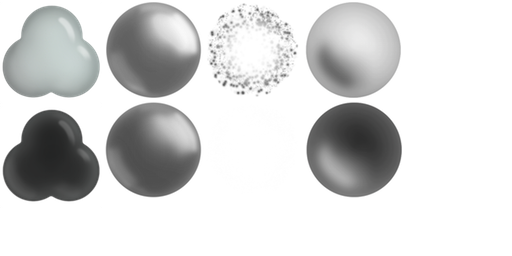
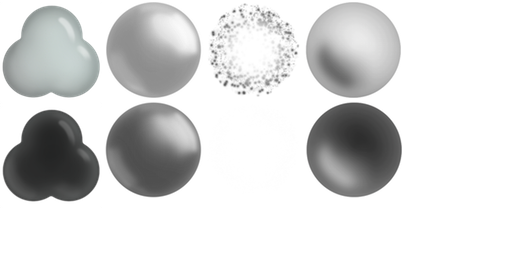
nulis2: play in ed works, various small tweaks

Changed region(s): [[0.1875, 0.0, 0.5938, 0.4062], [0.3438, 0.0312, 0.375, 0.0938], [0.5625, 0.1875, 0.5938, 0.2188]]

diff --git a/dgreed/apps/nulis2/sim.c b/dgreed/apps/nulis2/sim.c
@@ -24,8 +24,8 @@ typedef struct {
 // Sprites
 static SprHandle spr_background;
 static SprHandle spr_balls[32];
-static SprHandle spr_grav_b_in;
-static SprHandle spr_grav_w_in;
+static SprHandle spr_grav_b_in, spr_grav_b_back;
+static SprHandle spr_grav_w_in, spr_grav_w_back;
 
 // Game state
 static float screen_widthf, screen_heightf;
@@ -34,6 +34,7 @@ static DArray spawns;
 static DArray ghosts;
 static CDWorld cd;
 static LevelDef level;
+static float start_t;
 static float last_spawn_t;
 
 static bool ffield_push;
@@ -104,7 +105,9 @@ void sim_init(uint screen_width, uint screen_height) {
 	spr_balls[BT_TIME | BT_WHITE] = 	sprsheet_get_handle("time_w");
 
 	spr_grav_b_in = sprsheet_get_handle("gravity_b_inside");
+	spr_grav_b_back = sprsheet_get_handle("gravity_b_back");
 	spr_grav_w_in = sprsheet_get_handle("gravity_w_inside");
+	spr_grav_w_back = sprsheet_get_handle("gravity_w_back");
 }
 
 void sim_close(void) {
@@ -116,6 +119,18 @@ void sim_close(void) {
 }
 
 void sim_reset(const char* level) {
+	start_t = last_spawn_t = time_s();
+	ghosts.size = 0;
+	spawns.size = 0;
+	if(balls.size != 0) {
+		Ball* b = DARRAY_DATA_PTR(balls, Ball);
+		for(uint i = 0; i < balls.size; ++i) {
+			if(b[i].collider)
+				coldet_remove_obj(&cd, b[i].collider);
+		}
+		balls.size = 0;
+	}
+
 	_load_level(level);
 
 	last_spawn_t = time_s();
@@ -129,13 +144,19 @@ static void _spawn_ex(Ball* b) {
 	darray_append(&spawns, b);
 }
 
-static void _spawn(Vector2 pos, Vector2 vel, BallType type, float a, float t) {
+static void _spawn(Vector2 pos, Vector2 vel, BallType type, float a, float t, float s) {
 
 	float angular_vel = rand_float_range(-spawn_maxrot, spawn_maxrot);
 	float radius = type & BT_PAIR ? ball_radius * pair_displacement : ball_radius; 
 	float mass = type & BT_PAIR ? ball_mass * 2.0f : ball_mass;
-	if(type & BT_GRAV)
+
+	if(type & BT_GRAV) {
 		mass = grav_mass;
+	}
+
+	if(type & BT_GRAV || type & BT_TIME) {
+		radius = 16.0f + s * 2.0f;
+	}
 
 	Ball new = {
 		.pos = pos,
@@ -222,7 +243,7 @@ static bool _do_balls_collide(const Ball* a, const Ball* b) {
 }
 
 static void _update_level(void) {
-	float t = time_s();
+	float t = time_s() - start_t;
 
 	// Spawn predefined balls
 	for(uint i = 0; i < level.n_spawns; ++i) {
@@ -232,7 +253,7 @@ static void _update_level(void) {
 					screen_widthf/2.0f + s->pos.x,
 					screen_heightf/2.0f + s->pos.y
 			);
-			_spawn(p, s->vel, s->type, 0.0f, t);
+			_spawn(p, s->vel, s->type, 0.0f, t, s->s);
 			last_spawn_t = t;
 
 			// Move last spawn here, decrease count
@@ -267,7 +288,7 @@ static void _update_level(void) {
 					sinf(a) * v
 			);
 
-			_spawn(pos, vel, type, 0.0f, t);
+			_spawn(pos, vel, type, 0.0f, t, 0.0f);
 			last_spawn_t = t;
 		}
 	}
@@ -543,7 +564,7 @@ void _collission_cb(CDObj* a, CDObj* b) {
 						);	
 						Vector2 pos = vec2_add(fancy->pos, offset);
 						Vector2 v = vec2_add(vec2_scale(offset, 0.5), vf);
-						_spawn(pos, v, ta & BT_WHITE, 0.0f, -1.0f);
+						_spawn(pos, v, ta & BT_WHITE, 0.0f, -1.0f, 0.0f);
 					}
 				}
 			}
@@ -558,7 +579,7 @@ void _collission_cb(CDObj* a, CDObj* b) {
 				// To small, become a normal ball
 				if(fancy->radius < 16.0f) {
 					fancy->remove = true;
-					_spawn(fancy->pos, vf, fancy->type & BT_WHITE, 0.0f, -1.0f);
+					_spawn(fancy->pos, vf, fancy->type & BT_WHITE, 0.0f, -1.0f, 0.0f);
 				}
 			}
 			return;
@@ -599,7 +620,7 @@ void _collission_cb(CDObj* a, CDObj* b) {
 			if((ta & BT_PAIR) && (tb & BT_PAIR)) {
 				Vector2 vel = vec2_sub(new.old_pos, new.pos);
 				vel = vec2_scale(vel, 1.0f / DT);
-				_spawn(new.pos, vel, ta & BT_WHITE, 0.0f, -1.0f);
+				_spawn(new.pos, vel, ta & BT_WHITE, 0.0f, -1.0f, 0.0f);
 			}
 		}
 	}
@@ -630,7 +651,7 @@ void _collission_cb(CDObj* a, CDObj* b) {
 					);	
 					Vector2 pos = vec2_add(p, offset);
 					Vector2 v = vec2_add(vec2_scale(offset, 0.5), vab);
-					_spawn(pos, v, i%2 ? BT_WHITE : 0, 0.0f, -1.0f);
+					_spawn(pos, v, i%2 ? BT_WHITE : 0, 0.0f, -1.0f, 0.0f);
 				}
 			}
 			// XX + Y = X + X + Y + Y
@@ -644,7 +665,7 @@ void _collission_cb(CDObj* a, CDObj* b) {
 					);	
 					Vector2 pos = vec2_add(p, offset);
 					Vector2 v = vec2_add(vec2_scale(offset, 0.5f), vab);
-					_spawn(pos, v, i%2 ? BT_WHITE : 0, 0.0f, -1.0f);
+					_spawn(pos, v, i%2 ? BT_WHITE : 0, 0.0f, -1.0f, 0.);
 				}
 			}
 			return;
@@ -850,7 +871,7 @@ static void _render_ball(Ball* b, float t) {
 	float angle = (b->type & ~BT_WHITE) ? b->angle : 0.0f;
 
 	Color c = COLOR_WHITE;
-	uint layer = 1;
+	uint layer = 3;
 
 	float radius = b->radius;
 
@@ -897,21 +918,21 @@ static void _render_ball(Ball* b, float t) {
 		SprHandle spr = b->type & BT_WHITE ? spr_grav_w_in : spr_grav_b_in;
 		float off = t + b->t;
 
-		const int n_rings = 4;
+		const int n_rings = 6;
 		for(uint i = 0; i < n_rings; ++i) {
 			float sn = sinf(t + i*(PI*2.0f / n_rings))/ 2.0f + 0.5f;
 			float cn = cosf(t + i*(PI*2.0f / n_rings));
 
 			if(cn > 0.0f) {
-				float r = lerp(scale*0.4f, scale*0.8f, sn);
-				float a = off * (float)(i+1);
+				float r = lerp(scale*0.2f, scale, sn);
+				float a = off * (float)(i+1) / 6.0f;
 				Color col = c & 0xFFFFFF;
 				col = color_lerp(col, c, cn);
 
 				spr_draw_cntr_h(spr, layer+1, b->pos, a, r, col);
 
 				WRAPAROUND_DRAW(x_min, x_max, y_min, y_max, b->pos,
-					spr_draw_cntr_h(spr, layer+1, npos, a, r, col));
+					spr_draw_cntr_h(spr, layer-1, npos, a, r, col));
 			}
 		}
 	}

diff --git a/dgreed/apps/nulis2/levels.c b/dgreed/apps/nulis2/levels.c
@@ -32,6 +32,52 @@ static BallType _get_type(const char* typestr) {
 	return 0;
 }
 
+static void _parse_level(MMLObject* mml, NodeIdx node, LevelDef* dest) {
+	const char* name = mml_getval_str(mml, node);
+	assert(strlen(name) < LEVEL_NAMELEN);
+	strcpy(dest->name, name);
+
+	NodeIdx n = mml_get_child(mml, node, "random_at");
+	if(n)
+		dest->spawn_random_at = mml_getval_uint(mml, n);
+	
+	n = mml_get_child(mml, node, "random_interval");
+	if(n)
+		dest->spawn_random_interval = mml_getval_float(mml, n);
+
+	n = mml_get_child(mml, node, "spawns");
+	dest->n_spawns = 0; 
+	assert(dest->n_spawns <= MAX_SPAWNS);
+
+	n = mml_get_first_child(mml, n);
+	for(; n != 0; n = mml_get_next(mml, n)) {
+		SpawnDef spawn = {
+			.pos = {0.0f, 0.0f},
+			.vel = {0.0f, 0.0f},
+			.t = 0.0f,
+			.s = 0.0f,
+			.type = _get_type(mml_get_name(mml, n))
+		};
+
+		spawn.pos = mml_getval_vec2(mml, n);
+
+		NodeIdx m = mml_get_child(mml, n, "vel");
+		if(m)
+			spawn.vel = mml_getval_vec2(mml, m);
+		
+		m = mml_get_child(mml, n, "t");
+		if(m)
+			spawn.t = mml_getval_float(mml, m);
+
+		m = mml_get_child(mml, n, "s");
+		if(m)
+			spawn.s = mml_getval_float(mml, m);
+
+		assert(dest->n_spawns < MAX_SPAWNS);
+		dest->spawns[dest->n_spawns++] = spawn;
+	}
+}
+
 void levels_reset(const char* desc) {
 	assert(desc);
 
@@ -76,50 +122,54 @@ void levels_reset(const char* desc) {
 		LevelDef new;
 		memset(&new, 0, sizeof(new));
 
-		const char* name = mml_getval_str(&level_mml, level);
-		assert(strlen(name) < LEVEL_NAMELEN);
-		strcpy(new.name, name);
-
-		NodeIdx n = mml_get_child(&level_mml, level, "random_at");
-		if(n)
-			new.spawn_random_at = mml_getval_uint(&level_mml, n);
+		_parse_level(&level_mml, level, &new);
 		
-		n = mml_get_child(&level_mml, level, "random_interval");
-		if(n)
-			new.spawn_random_interval = mml_getval_float(&level_mml, n);
-
-		n = mml_get_child(&level_mml, level, "spawns");
-		new.n_spawns = 0; 
-		assert(new.n_spawns <= MAX_SPAWNS);
-
-		n = mml_get_first_child(&level_mml, n);
-		for(; n != 0; n = mml_get_next(&level_mml, n)) {
-			SpawnDef spawn = {
-				.pos = {0.0f, 0.0f},
-				.vel = {0.0f, 0.0f},
-				.t = 0.0f,
-				.type = _get_type(mml_get_name(&level_mml, n))
-			};
-
-			spawn.pos = mml_getval_vec2(&level_mml, n);
-
-			NodeIdx m = mml_get_child(&level_mml, n, "vel");
-			if(m)
-				spawn.vel = mml_getval_vec2(&level_mml, m);
-			
-			m = mml_get_child(&level_mml, n, "t");
-			if(m)
-				spawn.t = mml_getval_float(&level_mml, m);
-
-			assert(new.n_spawns < MAX_SPAWNS);
-			new.spawns[new.n_spawns++] = spawn;
-		}
-
 		darray_append(&level_defs, &new);
 	}
 
 	mml_free(&level_mml);
 	level_mml_loaded = true;
+}
+
+void levels_parse_ed(const char* desc) {
+	assert(desc);
+
+	MMLObject ed_mml;
+
+	// Parse mml
+	char* mml_text = txtfile_read(desc);
+	if(!mml_deserialize(&ed_mml, mml_text))
+		LOG_ERROR("Unable to parse editor level");
+	MEM_FREE(mml_text);
+
+	// Check root name
+	NodeIdx root = mml_root(&ed_mml);
+	if(strcmp(mml_get_name(&ed_mml, root), "edlevel") != 0)
+		LOG_ERROR("Invalid level desc");
+
+	// Check level count, there should be only one
+	int level_count = mml_count_children(&ed_mml, root);
+	if(level_count != 1)
+		LOG_ERROR("How many levels did you put in edlevel.mml?");
+
+	// Get level node, name
+	NodeIdx level = mml_get_first_child(&ed_mml, root);
+	const char* name = mml_getval_str(&ed_mml, level);
+
+	// Find old level
+	LevelDef* new = NULL;
+	LevelDef* defs = DARRAY_DATA_PTR(level_defs, LevelDef);
+	for(uint i = 0; i < level_defs.size; ++i) {
+		if(strcmp(defs[i].name, name) == 0) {
+			new = &defs[i];
+			break;
+		}
+	}
+
+	// Load the level
+	assert(new);
+	memset(new, 0, sizeof(LevelDef));
+	_parse_level(&ed_mml, level, new);
 }
 
 void levels_get(const char* name, LevelDef* def) {

diff --git a/dgreed/apps/nulis2/bind.c b/dgreed/apps/nulis2/bind.c
@@ -1,6 +1,7 @@
 #include "bind.h"
 
 #include "sim.h"
+#include "levels.h"
 
 #include <malka/ml_common.h>
 
@@ -10,12 +11,37 @@ static int csim_render(lua_State* l) {
 	return 0;
 }
 
+static int csim_reset(lua_State* l) {
+	checkargs(1, "csim.reset");
+
+	const char* level_name = luaL_checkstring(l, 1);
+	sim_reset(level_name);
+	
+	return 0;
+}
+
 static const luaL_Reg csim_fun[] = {
 	{"render", csim_render},
+	{"reset", csim_reset},
+	{NULL, NULL}
+};
+
+static int clevels_parse_ed(lua_State* l) {
+	checkargs(1, "clevels.parse_ed");
+
+	const char* desc = luaL_checkstring(l, 1);
+	levels_parse_ed(desc);
+
+	return 0;
+}
+
+static const luaL_Reg clevels_fun[] = {
+	{"parse_ed", clevels_parse_ed},
 	{NULL, NULL}
 };
 
 int bind_open_nulis2(lua_State* l) {
 	luaL_register(l, "csim", csim_fun);
+	luaL_register(l, "clevels", clevels_fun);
 	return 1;
 }

diff --git a/dgreed/apps/nulis2/levels.h b/dgreed/apps/nulis2/levels.h
@@ -4,7 +4,7 @@
 #include <utils.h>
 
 #define LEVEL_NAMELEN 4 
-#define MAX_SPAWNS 8 
+#define MAX_SPAWNS 16 
 
 /*
 Example:
@@ -36,7 +36,7 @@ typedef enum {
 
 typedef struct {
 	Vector2 pos, vel;
-	float t;
+	float t, s;
 	BallType type;
 } SpawnDef;
 
